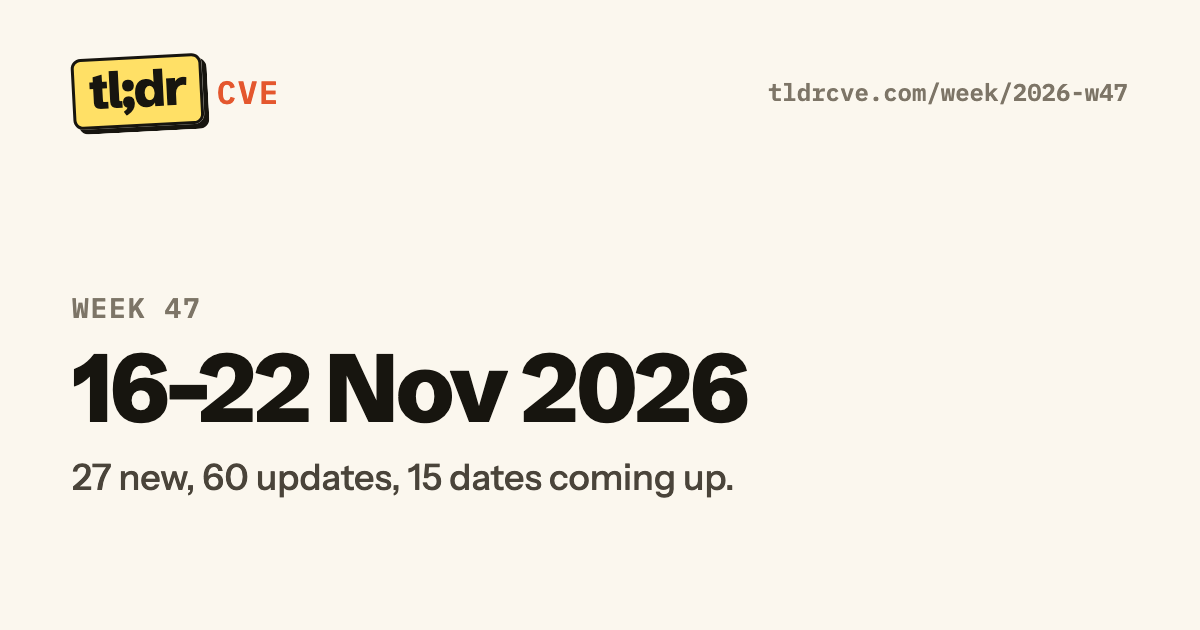
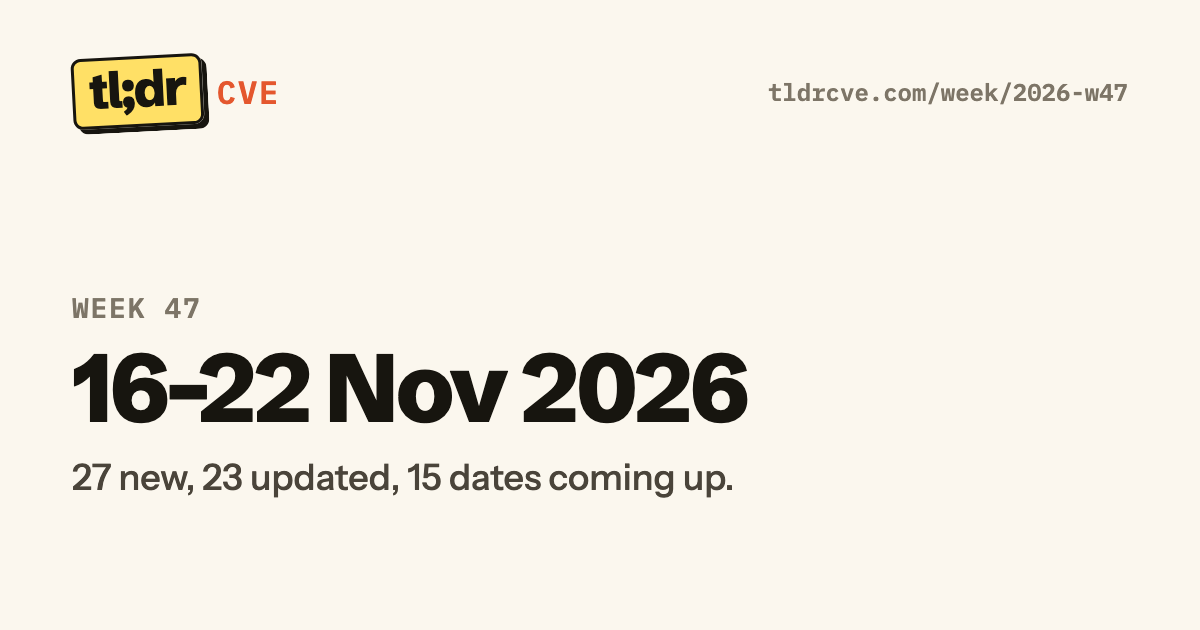
Weekly review: fix verifier findings
Calendar: "Windows Patch Tuesday" (the source covers Windows), "PHP
releases" (not known to be security), Oracle product and note per
Oracle's wording. CISA deadline notes say federal civilian agencies
(also on How we rate). Pending items get a "Recheck" tag and note. Safe
releases grouped by product and date, sorted, labelled as only dated
lines. Counts are pages updated. Labels avoid relative dates (nav
"Weekly", "New pages"). Finished weeks can be frozen with
--freeze-week so archived pages stop changing; strict builds warn when
a finished week isn't frozen. Homepage "Coming up" hides past dates in
the browser. Links to #sources open the folded changelog. New intro
wording.

Changed region(s): [[0.1542, 0.7238, 0.3392, 0.7841], [0.37, 0.754, 0.5858, 0.7841]]

diff --git a/assets/site.js b/assets/site.js
@@ -129,3 +129,26 @@
     }
   }
 })();
+
+// Homepage "Coming up": hide dates already past, keep the next few.
+(function () {
+  var list = document.querySelector("[data-upcoming]");
+  if (!list) return;
+  var keep = parseInt(list.getAttribute("data-upcoming"), 10) || 6;
+  var today = new Date().toISOString().slice(0, 10);
+  var shown = 0;
+  Array.prototype.forEach.call(list.querySelectorAll("li[data-date]"), function (li) {
+    if (li.getAttribute("data-date") < today || shown >= keep) { li.hidden = true; } else { shown++; }
+  });
+})();
+
+// Links to #sources open the folded sources and changelog.
+(function () {
+  function openSources() {
+    if (location.hash !== "#sources") return;
+    var d = document.getElementById("sources");
+    if (d && d.tagName === "DETAILS") d.open = true;
+  }
+  openSources();
+  window.addEventListener("hashchange", openSources);
+})();

diff --git a/build.py b/build.py
@@ -133,7 +133,7 @@ def page(title: str, description: str, body: str, current: str = "", path: str =
       <nav class="site-nav" aria-label="Main">
         <a href="/cves/"{cur["cves"]}>All CVEs</a>
         <a href="/versions/"{cur["versions"]}>Safe versions</a>
-        <a href="/week/"{cur["week"]}>This week</a>
+        <a href="/week/"{cur["week"]}>Weekly</a>
         <a href="/how-we-rate/"{cur["how"]}>How we rate</a>
       </nav>
     </div>
@@ -661,15 +661,27 @@ def upcoming(all_c: list, start: date, end: date) -> list:
             exp = (d.get("pending") or {}).get("expected")
             if within(exp):
                 out.append({"date": exp, "kind": "pending", "title": f'{c["name"]}: {d["label"]}', "product": c["product"],
-                            "note": "", "expected": True, "url": f'/{c["slug"]}/', "source": ""})
+                            "note": "We expect news by this date and will check again.", "expected": True, "url": f'/{c["slug"]}/', "source": ""})
         kev = c["status"].get("kev")
         if kev and within(kev.get("due")):
             out.append({"date": kev["due"], "kind": "deadline", "title": f'CISA deadline: {c["name"]}', "product": c["product"],
-                        "note": "US federal agencies must fix it by this date.", "expected": False, "url": f'/{c["slug"]}/', "source": ""})
+                        "note": "CISA's fix-by date for US federal civilian agencies.", "expected": False, "url": f'/{c["slug"]}/', "source": ""})
     return sorted(out, key=lambda e: (e["date"], e["kind"], e["title"]))
 
 
 def week_data(w: str, all_c: list) -> dict:
+    """A finished week is frozen in its weeks/ file ("snapshot", written by `build.py --freeze-week`), so its page
+    stays as it was; the current week is computed from live data."""
+    wk = next((x for x in WEEKS if x["week"] == w), {})
+    snap = wk.get("snapshot")
+    if snap:
+        by_slug = {c["slug"]: c for c in all_c}
+        return {"week": w, "start": snap["start"], "end": snap["end"],
+                "new": [by_slug[s] for s in snap["new"] if s in by_slug],
+                "changed": [(dt, by_slug[sl], t) for dt, sl, t in snap["changed"] if sl in by_slug],
+                "releases": [(dt, pid, VERSIONS.get(pid, {"name": name}), {"line": line, "latest": latest})
+                             for dt, pid, name, line, latest in snap["releases"]],
+                "ahead": snap["ahead"]}
     mon, sun = week_bounds(w)
     def in_week(d):
         return d and mon <= date.fromisoformat(d) <= sun
@@ -689,9 +701,9 @@ def ahead_items(ahead: list) -> str:
         ext = e["url"].startswith("http")
         rel = ' rel="nofollow"' if ext else ""
         link = f'<a href="{html.escape(e["url"])}"{rel}>{html.escape(e["title"])}</a>'
-        tag = ' <span class="tag">Expected</span>' if e["expected"] and e["kind"] != "pending" else ""
+        tag = ' <span class="tag">Recheck</span>' if e["kind"] == "pending" else (' <span class="tag">Expected</span>' if e["expected"] else "")
         note = f' <span class="muted">{text(e["note"])}</span>' if e["note"] else ""
-        rows.append(f'        <li><time datetime="{e["date"]}">{nice_date(e["date"])}</time><span>{link}{tag}{note}</span></li>')
+        rows.append(f'        <li data-date="{e["date"]}"><time datetime="{e["date"]}">{nice_date(e["date"])}</time><span>{link}{tag}{note}</span></li>')
     return "\n".join(rows) or '        <li><span></span><span>Nothing scheduled that we know of.</span></li>'
 
 
@@ -701,7 +713,8 @@ def week_page(wk: dict, all_c: list) -> str:
     idx = [x["week"] for x in WEEKS].index(w)
     prev_w = WEEKS[idx - 1]["week"] if idx > 0 else None
     next_w = WEEKS[idx + 1]["week"] if idx + 1 < len(WEEKS) else None
-    counts = f'{len(d["new"])} new page{"s" if len(d["new"]) != 1 else ""}, {len(d["changed"])} update{"s" if len(d["changed"]) != 1 else ""}'
+    n_upd = len({c["slug"] for _, c, _ in d["changed"]})
+    counts = f'{len(d["new"])} new page{"s" if len(d["new"]) != 1 else ""}, {n_upd} page{"s" if n_upd != 1 else ""} updated'
     intro = f'\n      <p>{text(wk["intro"])}</p>' if wk.get("intro") else ""
     by_page = {}
     for dt, c, t in d["changed"]:  # newest first, so the first entry per page is its latest change
@@ -709,16 +722,16 @@ def week_page(wk: dict, all_c: list) -> str:
     changed = "\n".join(
         f'        <li><time datetime="{dt}">{nice_date(dt)}</time><span><a href="/{c["slug"]}/">{html.escape(c["name"])}</a>: {text(t)}'
         + (f' <a class="muted" href="/{c["slug"]}/#sources">+{len(all_t) - 1} earlier</a>' if len(all_t) > 1 else "") + "</span></li>"
-        for dt, c, t, all_t in by_page.values()) or '        <li><span></span><span>No updates this week.</span></li>'
+        for dt, c, t, all_t in by_page.values()) or '        <li><span></span><span>No updates.</span></li>'
     by_prod = {}
     for dt, pid, v, l in d["releases"]:  # newest first
-        by_prod.setdefault(pid, (dt, v, []))[2].append(l["latest"])
+        by_prod.setdefault((pid, dt), (v, []))[1].append(l["latest"])
     releases = "\n".join(
-        f'        <li><time datetime="{dt}">{nice_date(dt)}</time><span><a href="/versions/{pid}/">{html.escape(v["name"])}</a>: {html.escape(", ".join(vers))}</span></li>'
-        for pid, (dt, v, vers) in by_prod.items()) or '        <li><span></span><span>None this week.</span></li>'
+        f'        <li><time datetime="{dt}">{nice_date(dt)}</time><span><a href="/versions/{pid}/">{html.escape(v["name"])}</a>: {html.escape(", ".join(sorted(vers, key=vkey, reverse=True)))}</span></li>'
+        for (pid, dt), (v, vers) in by_prod.items()) or '        <li><span></span><span>None with a release date this week.</span></li>'
     top, rest = d["new"][:WEEK_TILES], d["new"][WEEK_TILES:]
     new_tiles = "\n".join(tile(c) for c in top)
-    new_block = f'    <ul class="tiles">\n{new_tiles}\n    </ul>' if top else '    <p class="muted">No new pages this week.</p>'
+    new_block = f'    <ul class="tiles">\n{new_tiles}\n    </ul>' if top else '    <p class="muted">No new pages.</p>'
     if rest:
         rest_rows = "\n".join(
             f'        <li><span class="verdict verdict--{c["verdict"]}">{VERDICTS[c["verdict"]]}</span><span><a href="/{c["slug"]}/">{html.escape(c["name"])}</a> <span class="muted">{text(c["tile_line"])}</span></span></li>'
@@ -743,7 +756,7 @@ def week_page(wk: dict, all_c: list) -> str:
       <p>{week_label(w)}: {counts}.</p>{intro}
     </header>
 
-    <div class="section-head"><h2>New this week</h2></div>
+    <div class="section-head"><h2>New pages</h2></div>
 {new_block}
 
     <section class="pane">
@@ -756,7 +769,7 @@ def week_page(wk: dict, all_c: list) -> str:
     </section>
 
     <section class="pane">
-      <div class="pane__head"><h2>New safe releases</h2><a class="more-link" href="/versions/">All safe versions →</a></div>
+      <div class="pane__head"><h2>New safe releases</h2><span class="pane__meta">only product lines where we record a release date</span></div>
       <div class="pane__body">
       <ul class="changes">
 {releases}
@@ -785,7 +798,7 @@ def weeks_index(all_c: list) -> str:
     for wk in reversed(WEEKS):
         w = wk["week"]
         d = week_data(w, all_c)
-        rows.append(f'        <li><time datetime="{d["start"]}">{nice_date(d["start"])}</time><span><a href="/week/{week_slug(w)}/">{week_title(w)}</a>: {week_label(w)}, {len(d["new"])} new, {len(d["changed"])} updates</span></li>')
+        rows.append(f'        <li><time datetime="{d["start"]}">{nice_date(d["start"])}</time><span><a href="/week/{week_slug(w)}/">{week_title(w)}</a>: {week_label(w)}, {len(d["new"])} new, {len({c["slug"] for _, c, _ in d["changed"]})} updated</span></li>')
     body = f"""  <main class="wrap prose-page">
     <header class="page-head">
       <h1>Weekly review</h1>
@@ -809,13 +822,14 @@ def home_week(all_c: list) -> str:
     if not WEEKS:
         return ""
     w = WEEKS[-1]["week"]
-    d = week_data(w, all_c)
+    start = week_bounds(w)[0]
+    soon = upcoming(all_c, start, start + timedelta(days=AHEAD_DAYS + 30))  # site.js hides dates already past and keeps 6
     return f"""
     <section class="pane">
       <div class="pane__head"><h2>Coming up</h2><a class="more-link" href="/week/{week_slug(w)}/">{week_title(w)} review →</a></div>
       <div class="pane__body">
-      <ul class="changes">
-{ahead_items(d["ahead"][:6])}
+      <ul class="changes" data-upcoming="6">
+{ahead_items(soon)}
       </ul>
       </div>
     </section>
@@ -980,7 +994,7 @@ def how_page() -> str:
         <dt>Public exploit code is out</dt><dd>Working code anyone can download. A blog post or video doesn't count, and neither do the fake exploits that show up after every big CVE.</dd>
         <dt>Shown working</dt><dd>A researcher demonstrated it, but hasn't published the code.</dd>
         <dt>Attacks seen in the wild</dt><dd>A credible report from the vendor, CISA or a named security team.</dd>
-        <dt>On CISA's exploited list</dt><dd>Listed in CISA's <a href="https://www.cisa.gov/known-exploited-vulnerabilities-catalog">Known Exploited Vulnerabilities</a> catalog. The fix-by date is the US federal deadline, which is a good default for everyone else.</dd>
+        <dt>On CISA's exploited list</dt><dd>Listed in CISA's <a href="https://www.cisa.gov/known-exploited-vulnerabilities-catalog">Known Exploited Vulnerabilities</a> catalog. The fix-by date is CISA's deadline for US federal civilian agencies, which is a good default for everyone else.</dd>
       </dl>
     </section>
 
@@ -1113,9 +1127,17 @@ def editor_checks(all_c: list) -> list:
             warnings.append(f"{where}: kind must be release or patch-day")
         if e.get("expected") and when < date.today():
             warnings.append(f"{where}: expected date {e['date']} has passed; confirm it or remove it")
+    for e in CALENDAR:
+        if RELATIVE.search(e.get("note", "")):
+            warnings.append(f"calendar.json ({e.get('title')}): relative date in note, use an absolute date")
     for wk in WEEKS:
         if not WEEK_RE.match(wk.get("week", "")):
             warnings.append(f"weeks: bad week id {wk.get('week')!r}, use YYYY-Www")
+            continue
+        if RELATIVE.search(wk.get("intro", "")):
+            warnings.append(f"weeks/{week_slug(wk['week'])}.json: relative date in intro, use an absolute date")
+        if not wk.get("snapshot") and week_bounds(wk["week"])[1] + timedelta(days=1) < date.today():
+            warnings.append(f"weeks/{week_slug(wk['week'])}.json: week is over; run python3 build.py --freeze-week {wk['week']}")
     return warnings
 
 
@@ -1216,7 +1238,7 @@ def write_feed(all_c: list) -> None:
       <link>{SITE_URL}/week/{week_slug(w)}/</link>
       <guid isPermaLink="false">week-{week_slug(w)}</guid>
       <pubDate>{rfc822(d["end"])}</pubDate>
-      <description>{html.escape(f'{len(d["new"])} new pages, {len(d["changed"])} updates, and {len(d["ahead"])} dates coming up.')}</description>
+      <description>{html.escape(f'{len(d["new"])} new pages, {len({c["slug"] for _, c, _ in d["changed"]})} pages updated, and {len(d["ahead"])} dates coming up.')}</description>
     </item>""")
     newest = entries[0][0] if entries else date.today().isoformat()
     (OUT / "feed.xml").write_text(f"""<?xml version="1.0" encoding="UTF-8"?>
@@ -1396,8 +1418,27 @@ def not_found_page() -> str:
     return page("Not found · tldrcve", "Page not found.", body, path="404")
 
 
+def freeze_week(w: str, all_c: list) -> None:
+    """Write a finished week's computed contents into its weeks/ file, so the page stops changing."""
+    path = WEEKS_DIR / f"{week_slug(w)}.json"
+    wk = json.loads(path.read_text())
+    if wk.get("snapshot"):
+        sys.exit(f"{w} is already frozen")
+    if week_bounds(w)[1] >= date.today():
+        sys.exit(f"{w} isn't over yet (ends {week_bounds(w)[1]})")
+    d = week_data(w, all_c)
+    wk["snapshot"] = {"start": d["start"], "end": d["end"], "new": [c["slug"] for c in d["new"]],
+                      "changed": [[dt, c["slug"], t] for dt, c, t in d["changed"]],
+                      "releases": [[dt, pid, v["name"], l["line"], l["latest"]] for dt, pid, v, l in d["releases"]],
+                      "ahead": d["ahead"]}
+    path.write_text(json.dumps(wk, indent=2, ensure_ascii=False) + "\n")
+    print(f"froze {w} in {path.relative_to(ROOT)}")
+
+
 def main() -> None:
     all_c = [json.loads(p.read_text()) for p in sorted(CONTENT.glob("*.json"))]
+    if "--freeze-week" in sys.argv:
+        return freeze_week(sys.argv[sys.argv.index("--freeze-week") + 1], all_c)
     warnings = editor_checks(all_c) + versions_checks(all_c)
     slugs = {c["slug"] for c in all_c}
     for c in all_c:

diff --git a/tools/cards.py b/tools/cards.py
@@ -153,7 +153,7 @@ def documents(all_c):
         d = build.week_data(w, all_c)
         cards[f"week/{build.week_slug(w)}"] = text_card(f"tldrcve.com/week/{build.week_slug(w)}", build.week_title(w),
                                                         build.week_label(w),
-                                                        f'{len(d["new"])} new, {len(d["changed"])} updates, {len(d["ahead"])} dates coming up.')
+                                                        f'{len(d["new"])} new, {len({c["slug"] for _, c, _ in d["changed"]})} updated, {len(d["ahead"])} dates coming up.')
     return {slug: f'<!doctype html><html><head><meta charset="utf-8">{FONTS}<style>{CSS}</style></head><body>{body}</body></html>'
             for slug, body in cards.items()}
 
